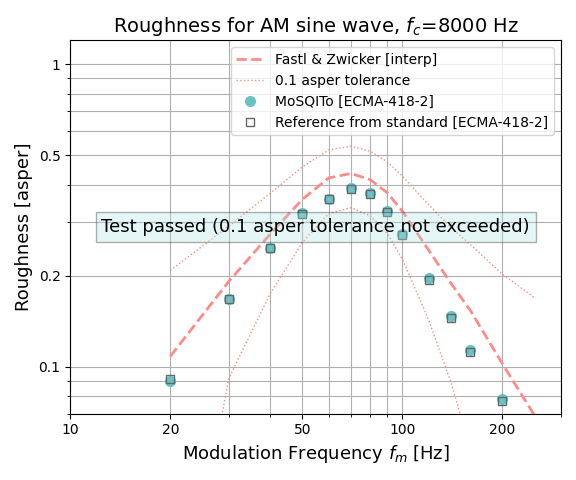
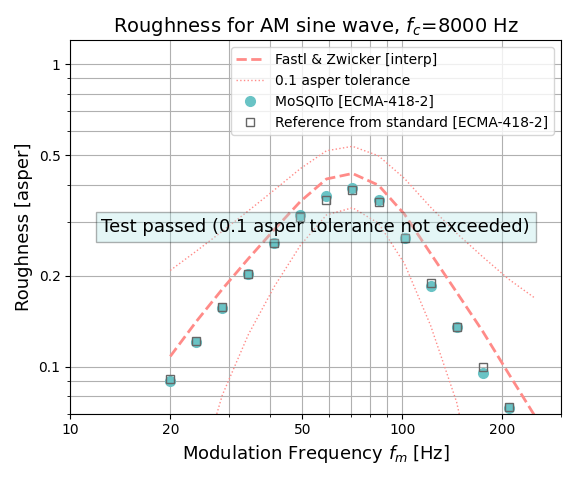
[doc] validation plots updated with logspace repartition of points

diff --git a/validations/sq_metrics/roughness_ecma/validation_roughness_ecma.py b/validations/sq_metrics/roughness_ecma/validation_roughness_ecma.py
@@ -9,7 +9,7 @@ from input.references import ref_zf, ref_ecma
 
 from mosqito import COLORS as clr
 
-def validation_roughness_ecma(fc):
+def validation_roughness_ecma(fc, fm_vector):
     """Validation function for the roughness calculation of an audio signal
     according to ECMA 418-2 (2nd edition, 2022).
 
@@ -30,9 +30,7 @@ def validation_roughness_ecma(fc):
     fs = 48000
     time = np.linspace(0, duration, int(duration*fs))
     level = 60
-    mdepth = 1
 
-    fm_vector = np.array([20,30,40,50,60,70,80,90,100,120,140,160,200, 250])
     n = len(fm_vector)
     
     # Roughness calculation for each carrier frequency
@@ -138,6 +136,15 @@ def _check_compliance(fc, fm_vector, R_ecma, R_ref_zf, R_ref_ecma):
 
 # test de la fonction
 if __name__ == "__main__":
+    # carrier frequency
     fc_vector = np.array([125, 250, 500, 1000, 2000, 4000, 8000])
-    for fc in fc_vector:
-        validation_roughness_ecma(fc)
+    
+    # lower, upper modulation frequency in range for each fc
+    N_interp = 15
+    fm_all = np.array([[20,  20,  20,  20,  20,  20,  20],
+                    [100, 150, 200, 400, 350, 300, 250]])
+
+    for i, fc in enumerate(fc_vector):
+        fm_vector = np.logspace(np.log10(fm_all[0, i]),
+                        np.log10(fm_all[1, i]), N_interp, base=10)
+        validation_roughness_ecma(fc, fm_vector)
